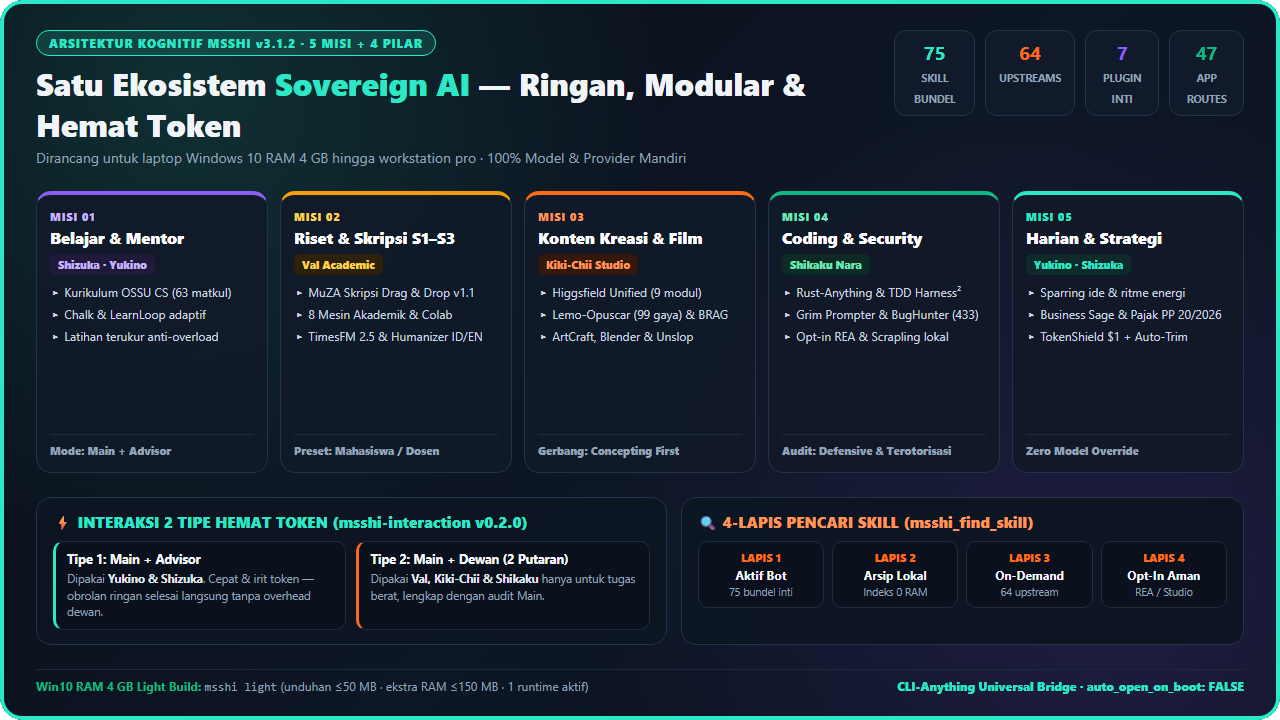
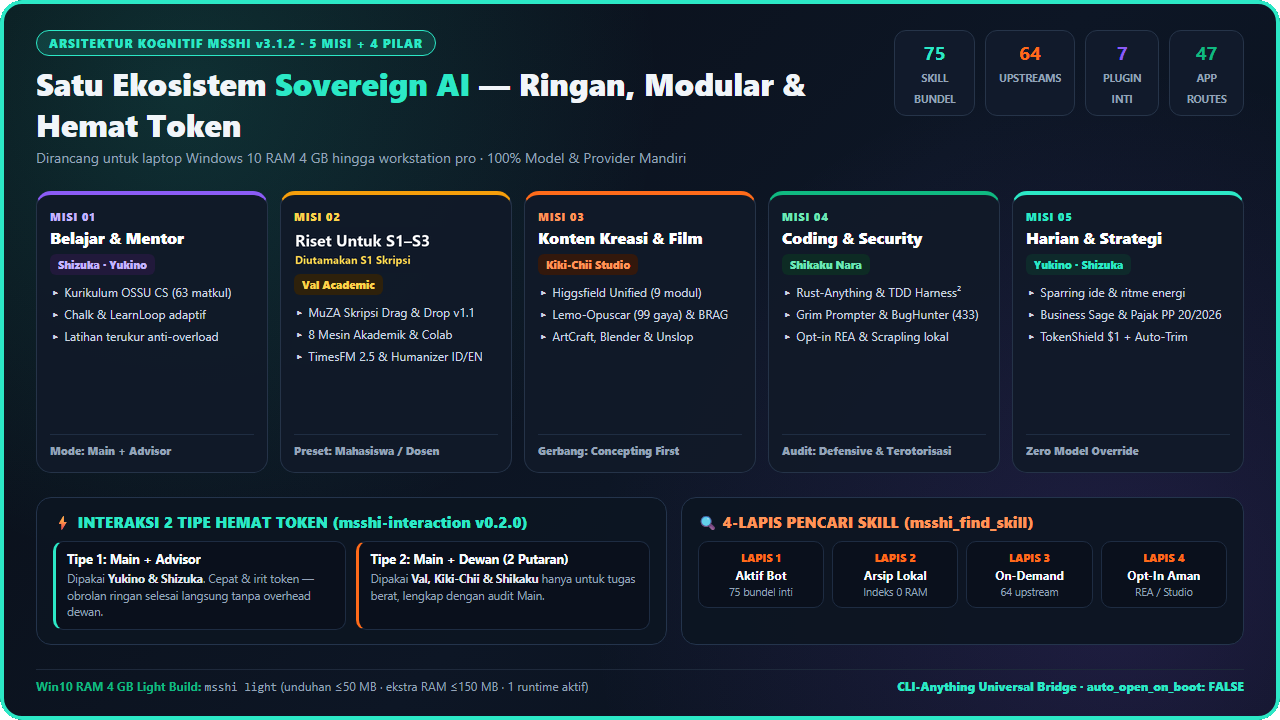
docs(misi-02): update Misi 02 title to Riset Untuk S1-S3 (Diutamakan S1 Skripsi)

Changed region(s): [[0.2188, 0.3056, 0.375, 0.5194]]

diff --git a/README.md b/README.md
@@ -76,7 +76,7 @@
 
 <div align="center">
   <img src="assets/showcases/showcase-5-missions-overview.png" width="96%" alt="Visualisasi 5 Misi Utama MSSHI v3.1.2, Interaksi 2 Tipe Hemat Token, dan 4-Lapis Pencari Skill">
-  <br><sub><b>Ringkasan 10 Detik:</b> 5 Misi Utama · 75 Skill Bundel · 64 Upstreams · Interaksi 2 Tipe (<code>msshi-interaction v0.2.0</code>) · 4-Lapis <code>msshi_find_skill</code> · Win10 RAM 4 GB Light Build.</sub>
+  <br><sub><b>Ringkasan 10 Detik:</b> 5 Misi Utama (Misi 02: <b>Riset Untuk S1–S3 (Diutamakan S1 Skripsi)</b>) · 75 Skill Bundel · 64 Upstreams · Interaksi 2 Tipe (<code>msshi-interaction v0.2.0</code>) · 4-Lapis <code>msshi_find_skill</code> · Win10 RAM 4 GB Light Build.</sub>
 </div>
 
 ---
@@ -173,7 +173,7 @@ Setiap bot punya berkas [`SOUL.md`](configs/personas/) khusus, batasan otoritas,
 | :---: | :--- | :--- | :--- |
 | <img src="assets/avatars/bot-01-yukino.png" width="84" alt="Yukino Yukinoshita"> | **1. Yukino Yukinoshita**<br>*(Idea Sparring Partner)*<br><sub>Instalasi baru: bot <code>default</code> Hermes</sub> | Menguji ide mentah pengguna agar tajam sebelum masuk produksi; mengatur ritme energi kerja &amp; mengekstrak *brief* jernih untuk Shizuka. | [`configs/personas/yukino.md`](configs/personas/yukino.md) (**31 skill**) · `brainstorming-research-ideas`, `focus-my-energy`, `idea-generation`, `muza-skripsi-template`, `business-sage`. |
 | <img src="assets/avatars/bot-02-shizuka.png" width="84" alt="Sensei Shizuka Hiratsuka"> | **2. Sensei Shizuka Hiratsuka**<br>*(Mastermind Orchestrator)* | Pemimpin orkestrasi tim: merancang strategi Bisnis/BBA/MBA/Pajak RI, menjaga guardrail `TokenShield` (`$1.00`), mendelegasikan tugas, &amp; merangkum hasil akhir untuk manusia. | [`configs/personas/shizuka.md`](configs/personas/shizuka.md) (**27 skill**) · `wise-judgment-and-sovereign-orchestrator`, `business-sage`, `cli-anything-business-sage`, `muza-skripsi-template`. |
-| <img src="assets/avatars/bot-03-val.png" width="84" alt="Val Deep Research"> | **3. Val**<br>*(Deep Research &amp; S1–S3 Thesis)* | Mesin kecerdasan akademik: memetakan *research gap*, mencari paper primer, merakit template skripsi Word otomatis, meramal deret waktu **`TimesFM`**, &amp; `hermes-dreaming`. | [`configs/personas/val.md`](configs/personas/val.md) (**38 skill**) · **Mesin Skripsi #8 (`muza-skripsi-template`)**, `timesfm-forecasting`, `scrapling`, `unslop`, `harness2`. |
+| <img src="assets/avatars/bot-03-val.png" width="84" alt="Val Deep Research"> | **3. Val**<br>*(Deep Research &amp; Riset Untuk S1–S3 (Diutamakan S1 Skripsi))* | Mesin kecerdasan akademik: memetakan *research gap*, mencari paper primer, merakit template skripsi Word otomatis, meramal deret waktu **`TimesFM`**, &amp; `hermes-dreaming`. | [`configs/personas/val.md`](configs/personas/val.md) (**38 skill**) · **Mesin Skripsi #8 (`muza-skripsi-template`)**, `timesfm-forecasting`, `scrapling`, `unslop`, `harness2`. |
 | <img src="assets/avatars/bot-04-kikichii.png" width="84" alt="Kiki-Chii Creative Lead"> | **4. Kiki-Chii**<br>*(One-Woman Creative Studio)* | Sutradara kreatif **Concepting First**: merancang storyboard, produksi film/dokumenter 10–40 menit per bab, video peluncuran **`BRAG`** (**Hyperframes**), &amp; **`UI/UX Pro Max`**. | [`configs/personas/kiki-chii.md`](configs/personas/kiki-chii.md) (**22 skill**) · `brag`, `unslop`, `motion-graphics-suite`, `filmmaking-videography-photography-s2`, `higgsfield-skills`. |
 | <img src="assets/avatars/bot-05-shikaku.png" width="84" alt="Shikaku Nara Architect"> | **5. Shikaku Nara**<br>*(Architect, Coder &amp; Cybersec)* | Arsitek full-stack (KAT-Coder opsional, default OFF), Next.js/Go/Python/Flutter, evaluasi **`Harness²`**, parser lokal **`Scrapling`**, defensive cybersecurity, serta **Opt-in `REA`**. | [`configs/personas/shikaku.md`](configs/personas/shikaku.md) (**24 skill**) · `antigravity-webdev-cybersec`, `harness2`, `scrapling`, `unslop`, `evaluating-code-models`, `rea` (opt-in). |
 
